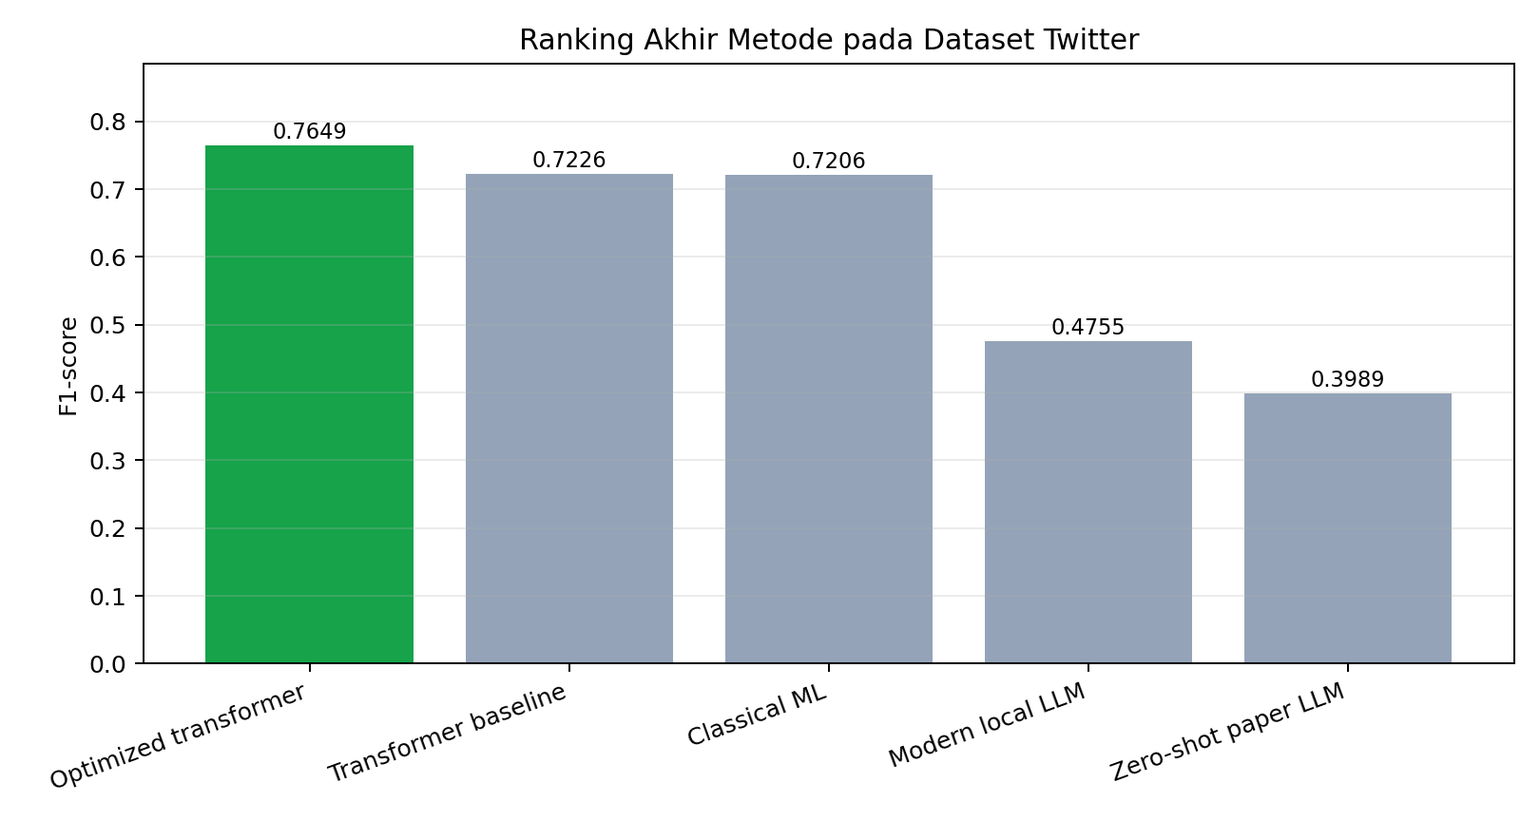
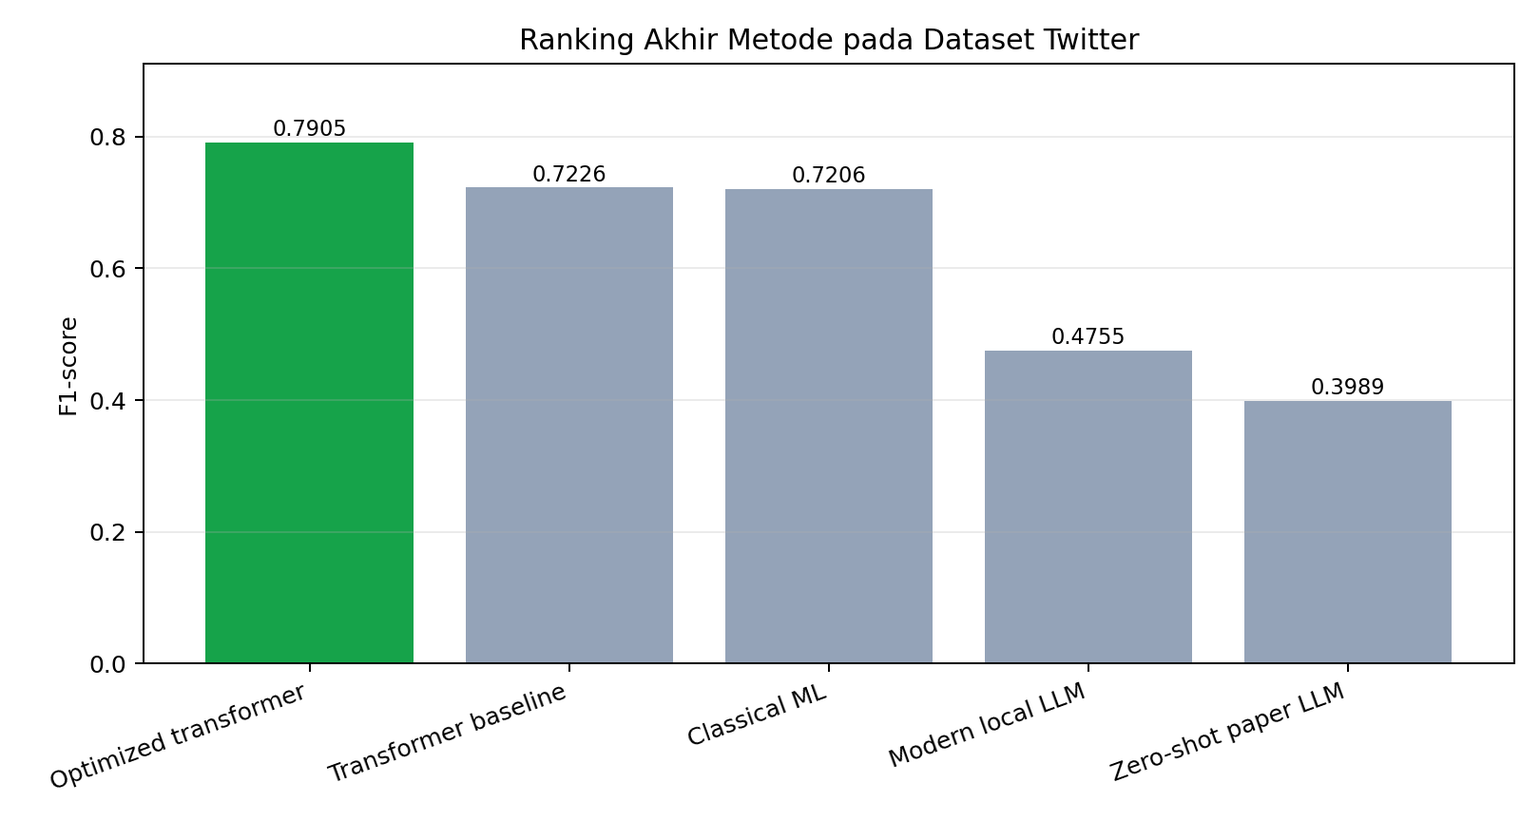
docs: update final report with Twitter optimization win

diff --git a/scripts/generate_final_analysis.py b/scripts/generate_final_analysis.py
@@ -8,6 +8,7 @@ The script reads committed result CSVs and writes final summary artifacts used b
 from __future__ import annotations
 
 import csv
+import json
 from pathlib import Path
 from typing import Any, Iterable
 
@@ -60,6 +61,39 @@ def model_label(row: dict[str, str], family: str) -> str:
     return row.get("model_alias", row.get("model_name", "-"))
 
 
+def read_optimization_results() -> list[dict[str, str]]:
+    """Read optimization rows from the canonical CSV plus result_row.json files.
+
+    Some Colab runs can be pushed with their per-run artifacts before the
+    aggregate CSV is updated. Reading both sources keeps final analysis robust.
+    """
+    rows = read_csv(TABLES / "optimization_runs.csv")
+    seen = {row.get("run_id") for row in rows}
+    for path in sorted((ROOT / "results" / "optimization").glob("*/result_row.json")):
+        data = json.loads(path.read_text(encoding="utf-8"))
+        if data.get("run_id") not in seen:
+            rows.append({key: str(value) for key, value in data.items()})
+            seen.add(data.get("run_id"))
+    return rows
+
+
+def optimized_score(row: dict[str, str]) -> tuple[float, str]:
+    default_f1 = as_float(row, "test_default_f1")
+    tuned_f1 = as_float(row, "test_tuned_f1")
+    if default_f1 >= tuned_f1:
+        return default_f1, "default"
+    return tuned_f1, "threshold"
+
+
+def optimized_label(row: dict[str, str]) -> str:
+    score, strategy = optimized_score(row)
+    if row.get("learning_rate") == "2e-05" and row.get("max_length") == "128" and strategy == "default":
+        return "xlmr-large-lr2e-5-default"
+    if strategy == "threshold":
+        return "xlmr-large-threshold"
+    return f"{row.get('model_alias', 'xlmr-large')}-{strategy}"
+
+
 def build_final_summary() -> list[dict[str, Any]]:
     classical = {
         "twitter": read_csv(TABLES / "classical_baselines_twitter.csv"),
@@ -68,7 +102,7 @@ def build_final_summary() -> list[dict[str, Any]]:
     transformer = read_csv(TABLES / "transformer_baselines.csv")
     zeroshot = read_csv(TABLES / "zeroshot_baselines.csv")
     modern = read_csv(TABLES / "modern_llm_experiments.csv")
-    optimization = read_csv(TABLES / "optimization_runs.csv")
+    optimization = read_optimization_results()
 
     rows: list[dict[str, Any]] = []
     for dataset in ["twitter", "reddit"]:
@@ -78,7 +112,8 @@ def build_final_summary() -> list[dict[str, Any]]:
         optimized_candidates = [
             r for r in optimization if r["dataset"] == dataset and r["model_alias"] == "xlmr-large"
         ]
-        best_optimized = best(optimized_candidates, key="test_tuned_f1")
+        best_optimized = max(optimized_candidates, key=lambda row: optimized_score(row)[0])
+        best_optimized_f1, best_optimized_strategy = optimized_score(best_optimized)
         dataset_modern = [r for r in modern if r["dataset"] == dataset]
         best_modern = best(dataset_modern) if dataset_modern else None
         rows.append(
@@ -88,8 +123,9 @@ def build_final_summary() -> list[dict[str, Any]]:
                 "best_classical_f1": round(as_float(best_classical, "f1"), 4),
                 "best_transformer_model": model_label(best_transformer, "transformer"),
                 "best_transformer_f1": round(as_float(best_transformer, "f1"), 4),
-                "optimized_transformer_model": "xlmr-large-threshold",
-                "optimized_transformer_f1": round(as_float(best_optimized, "test_tuned_f1"), 4),
+                "optimized_transformer_model": optimized_label(best_optimized),
+                "optimized_transformer_strategy": best_optimized_strategy,
+                "optimized_transformer_f1": round(best_optimized_f1, 4),
                 "best_zeroshot_model": model_label(best_zero, "zeroshot"),
                 "best_zeroshot_f1": round(as_float(best_zero, "f1"), 4),
                 "best_modern_llm_model": model_label(best_modern, "modern") if best_modern else "not_run",

diff --git a/scripts/generate_progress5_analysis.py b/scripts/generate_progress5_analysis.py
@@ -76,7 +76,7 @@ def generate_transformer_summary() -> None:
         )
     write_csv(TABLES / "progress5_transformer_optimization_summary.csv", summary)
 
-    xlmr_large = [r for r in rows if r["model_alias"] == "xlmr-large"]
+    xlmr_large = [r for r in rows if r["run_id"] in {"twitter-xlmr-large-threshold", "reddit-xlmr-large-threshold"}]
     labels = ["Twitter\nXLM-R Large", "Reddit\nXLM-R Large"]
     xlmr_large = sorted(xlmr_large, key=lambda r: 0 if r["dataset"] == "twitter" else 1)
     default = [f(r, "test_default_f1") for r in xlmr_large]

diff --git a/docs/laporan-proyek.md b/docs/laporan-proyek.md
@@ -411,6 +411,8 @@ Progress 5 menunjukkan bahwa optimasi sederhana melalui threshold tuning berhasi
 
 Pada dataset Reddit, XLM-R Large juga meningkat, tetapi lebih kecil. F1 naik dari 0,6117 menjadi 0,6241, dengan threshold terbaik 0,26. Kenaikannya +0,0124. Hasil ini tetap bernilai karena F1 paper untuk Reddit XLM-R Large adalah 0,6274, sehingga hasil tuned sudah mendekati target paper. Pada Reddit, threshold 0,26 menurunkan precision dari 0,6188 menjadi 0,5596, tetapi recall naik dari 0,6048 menjadi 0,7054. Jadi kenaikan F1 terjadi karena tambahan recall lebih besar daripada penurunan precision. Perbedaan arah threshold antara Twitter dan Reddit menunjukkan bahwa karakter kedua dataset memang berbeda.
 
+Setelah hasil Progress 5 selesai, dilakukan satu run optimasi lanjutan yang lebih terarah pada XLM-R Large. Konfigurasi learning rate dinaikkan dari 1e-5 menjadi 2e-5 pada dataset Twitter dengan max length 128. Hasilnya, F1 default naik menjadi 0,7905. Nilai ini melampaui target paper Twitter 0,7692 dengan selisih +0,0213. Pada run yang sama, threshold tuning validation memilih threshold 0,94 dan menghasilkan F1 test 0,7762. Karena F1 default lebih tinggi, hasil final Twitter memakai konfigurasi XLM-R Large learning rate 2e-5 dengan threshold standar.
+
 **Tabel 11.** Hasil Threshold Tuning XLM-R Large
 
 | Dataset | Threshold | F1 Default | F1 Tuned | Delta F1 | Precision Tuned | Recall Tuned |
@@ -421,9 +423,15 @@ Pada dataset Reddit, XLM-R Large juga meningkat, tetapi lebih kecil. F1 naik dar
 ![Hasil Threshold Tuning XLM-R Large](../results/figures/progress5_threshold_tuning_f1.png)
 **Gambar 18.** Perbandingan F1-score XLM-R Large sebelum dan sesudah threshold tuning pada dataset Twitter dan Reddit.
 
+**Tabel 12.** Optimasi Lanjutan XLM-R Large pada Twitter
+
+| Konfigurasi | F1 Default | F1 Tuned | Target Paper | Status |
+|-------------|-----------:|---------:|-------------:|--------|
+| lr=2e-5, len=128 | 0,7905 | 0,7762 | 0,7692 | melampaui paper |
+
 Hasil screening XLM-R Base pada Twitter memperlihatkan bahwa tidak semua perubahan hyperparameter memberi dampak positif. Konfigurasi learning rate 2e-5 dengan max length 128 menghasilkan F1 tuned terbaik di antara varian XLM-R Base, yaitu 0,7317. Konfigurasi label smoothing 0,05 justru turun setelah threshold tuning, dari F1 default 0,7260 menjadi 0,6877. Sementara itu, learning rate 5e-6 menghasilkan F1 default 0,0000 tetapi setelah threshold tuning naik menjadi 0,4800. Kasus ini menunjukkan bahwa threshold tuning bisa memperbaiki output model yang probabilitasnya tidak terkalibrasi dengan baik, tetapi bukan berarti model tersebut menjadi kandidat terbaik.
 
-**Tabel 12.** Ringkasan Screening XLM-R Base pada Twitter
+**Tabel 13.** Ringkasan Screening XLM-R Base pada Twitter
 
 | Konfigurasi | F1 Default | F1 Tuned | Delta F1 | Threshold |
 |-------------|-----------:|---------:|---------:|----------:|
@@ -438,7 +446,7 @@ Hasil screening XLM-R Base pada Twitter memperlihatkan bahwa tidak semua perubah
 
 Analisis transisi error memperjelas dampak threshold tuning. Pada Twitter, terdapat 22 contoh test yang sebelumnya salah dan menjadi benar setelah threshold tuning, sedangkan hanya 3 contoh yang sebelumnya benar menjadi salah. Ini menjelaskan kenapa F1 Twitter naik cukup besar. Pada Reddit, terdapat 71 contoh yang membaik, tetapi 129 contoh justru memburuk. Walaupun demikian, pergeseran precision dan recall secara keseluruhan tetap memberi kenaikan F1 kecil pada Reddit. Dengan kata lain, threshold tuning lebih efektif pada Twitter daripada Reddit.
 
-**Tabel 13.** Transisi Prediksi Setelah Threshold Tuning XLM-R Large
+**Tabel 14.** Transisi Prediksi Setelah Threshold Tuning XLM-R Large
 
 | Dataset | Membaik | Memburuk | Tetap Benar | Tetap Salah |
 |---------|--------:|---------:|------------:|------------:|
@@ -450,7 +458,7 @@ Analisis transisi error memperjelas dampak threshold tuning. Pada Twitter, terda
 
 Untuk eksperimen LLM lokal modern, empat run penuh Twitter berhasil diselesaikan: Qwen3.5-4B zero-shot, Qwen3.5-4B few-shot, Gemma 4 E4B zero-shot, dan Gemma 4 E4B few-shot. Seluruh run memiliki `invalid_outputs=0`, sehingga hasilnya valid untuk dibandingkan. Qwen3.5-4B few-shot menjadi yang terbaik di kelompok modern LLM lokal dengan F1 0,4755. Qwen3.5-4B zero-shot sedikit lebih rendah, yaitu 0,4665. Gemma 4 E4B memperoleh F1 0,4400 pada zero-shot dan 0,4580 pada few-shot.
 
-**Tabel 14.** Hasil Modern Local LLM pada Dataset Twitter
+**Tabel 15.** Hasil Modern Local LLM pada Dataset Twitter
 
 | Model | Mode | Accuracy | Precision | Recall | F1 | Invalid Output |
 |-------|------|---------:|----------:|-------:|---:|---------------:|
@@ -462,36 +470,36 @@ Untuk eksperimen LLM lokal modern, empat run penuh Twitter berhasil diselesaikan
 ![Perbandingan Modern Local LLM](../results/figures/progress5_modern_llm_f1_comparison.png)
 **Gambar 21.** Perbandingan F1-score LLM lokal modern dengan baseline zero-shot terbaik dan XLM-R Large hasil optimasi.
 
-Dari hasil ini, modern LLM lokal memang lebih baik daripada zero-shot BLOOMZ/mT0 Progress 4 pada Twitter yang berada di sekitar F1 0,3989. Namun, jaraknya masih jauh dari XLM-R Large hasil optimasi yang mencapai F1 0,7649. Hal ini memperkuat kesimpulan utama proyek bahwa, pada eksperimen ini, model yang dilatih atau dioptimasi pada dataset target masih lebih kuat daripada LLM yang hanya diberi prompt untuk deteksi sarkasme Indonesia.
+Dari hasil ini, modern LLM lokal memang lebih baik daripada zero-shot BLOOMZ/mT0 Progress 4 pada Twitter yang berada di sekitar F1 0,3989. Namun, jaraknya masih jauh dari XLM-R Large hasil optimasi lanjutan yang mencapai F1 0,7905 pada Twitter. Hal ini memperkuat kesimpulan utama proyek bahwa, pada eksperimen ini, model yang dilatih atau dioptimasi pada dataset target masih lebih kuat daripada LLM yang hanya diberi prompt untuk deteksi sarkasme Indonesia.
 
 Pola precision dan recall juga menarik. Gemma 4 E4B memiliki recall sangat tinggi, terutama zero-shot dengan recall 0,9851, tetapi precision rendah 0,2833. Artinya, model sangat sering memilih label sarkastik. Qwen3.5-4B lebih seimbang, terutama few-shot dengan precision 0,4809 dan recall 0,4701. Meskipun F1 Qwen belum tinggi, perilakunya lebih stabil dibanding Gemma yang terlalu agresif memprediksi sarkasme.
 
 ![Precision dan Recall Modern Local LLM](../results/figures/progress5_modern_llm_precision_recall.png)
 **Gambar 22.** Perbandingan precision dan recall LLM lokal modern pada dataset Twitter.
 
-Secara keseluruhan, Progress 5 memberi jawaban yang cukup kuat terhadap tujuan optimasi proyek. Peningkatan terbesar diperoleh dari threshold tuning XLM-R Large, terutama pada Twitter. Eksperimen hyperparameter XLM-R Base memberi informasi tambahan bahwa learning rate 2e-5 cukup menjanjikan, tetapi hasil terbaik proyek tetap XLM-R Large yang dioptimasi threshold. Modern LLM lokal berguna sebagai pembanding praktis, namun belum mendekati performa fine-tuned transformer. Dengan demikian, arah final proyek sebaiknya menekankan bahwa optimasi kecil pada transformer yang sudah dilatih lebih efektif daripada hanya mengganti ke model generatif baru tanpa fine-tuning.
+Secara keseluruhan, Progress 5 dan optimasi lanjutan memberi jawaban yang cukup kuat terhadap tujuan optimasi proyek. Threshold tuning memperbaiki XLM-R Large pada Twitter dan Reddit, lalu run lanjutan learning rate 2e-5 membuat hasil Twitter naik sampai 0,7905. Modern LLM lokal berguna sebagai pembanding praktis, namun belum mendekati performa fine-tuned transformer. Dengan demikian, arah final proyek menekankan bahwa optimasi kecil pada transformer yang sudah dilatih lebih efektif daripada hanya mengganti ke model generatif baru tanpa fine-tuning.
 
 ---
 
 ## 4. Rencana Pengembangan dan Kesimpulan Akhir
 
-Bagian ini menjadi penutup dari seluruh rangkaian proyek. Sampai Progress 6, eksperimen sudah mencakup empat kelompok metode: classical machine learning, fine-tuned transformer, zero-shot LLM sesuai paper, dan LLM lokal modern. Setelah itu, dilakukan optimasi pada model transformer terbaik menggunakan threshold tuning. Jadi, fokus akhir laporan bukan lagi menambah model baru, tetapi menyimpulkan pola hasil yang sudah terkumpul.
+Bagian ini menjadi penutup dari seluruh rangkaian proyek. Sampai Progress 6, eksperimen sudah mencakup empat kelompok metode: classical machine learning, fine-tuned transformer, zero-shot LLM sesuai paper, dan LLM lokal modern. Setelah itu, dilakukan optimasi pada model transformer terbaik melalui threshold tuning dan satu run lanjutan XLM-R Large dengan learning rate 2e-5 pada Twitter. Jadi, fokus akhir laporan adalah menyimpulkan pola hasil yang sudah terkumpul dan menegaskan konfigurasi terbaik yang berhasil melewati paper pada Twitter.
 
 ### 4.1 Analisis Komparatif Akhir
 
-Perbandingan akhir menunjukkan bahwa model terbaik pada kedua dataset adalah XLM-R Large setelah threshold tuning. Pada Twitter, F1 naik dari 0,7226 menjadi 0,7649. Nilai ini mendekati target paper 0,7692. Pada Reddit, F1 naik dari 0,6117 menjadi 0,6241 dan juga mendekati target paper 0,6274. Hasil ini menunjukkan bahwa optimasi sederhana pada tahap keputusan prediksi dapat memberi dampak nyata tanpa mengganti arsitektur model.
+Perbandingan akhir menunjukkan bahwa model terbaik pada kedua dataset tetap XLM-R Large, tetapi strategi optimasinya berbeda. Pada Twitter, run lanjutan dengan learning rate 2e-5 menghasilkan F1 0,7905, sehingga melampaui target paper 0,7692. Pada Reddit, hasil terbaik tetap berasal dari threshold tuning dengan F1 0,6241, masih sedikit di bawah target paper 0,6274. Hasil ini menunjukkan bahwa optimasi sederhana dapat memberi dampak nyata, tetapi efeknya tidak selalu sama pada setiap dataset.
 
-**Tabel 15.** Perbandingan Akhir Model Terbaik per Kelompok Metode
+**Tabel 16.** Perbandingan Akhir Model Terbaik per Kelompok Metode
 
 | Dataset | Classical ML Terbaik | F1 | Transformer Baseline | F1 | Transformer Optimized | F1 | Zero-shot Terbaik | F1 | Modern Local LLM | F1 |
 |---------|----------------------|---:|----------------------|---:|-----------------------|---:|------------------|---:|------------------|---:|
-| Twitter | BoW Logistic Regression | 0,7206 | XLM-R Large | 0,7226 | XLM-R Large + threshold | 0,7649 | mT0 Large | 0,3989 | Qwen3.5-4B few-shot | 0,4755 |
+| Twitter | BoW Logistic Regression | 0,7206 | XLM-R Large | 0,7226 | XLM-R Large lr=2e-5 | 0,7905 | mT0 Large | 0,3989 | Qwen3.5-4B few-shot | 0,4755 |
 | Reddit | TF-IDF Logistic Regression | 0,4959 | XLM-R Large | 0,6117 | XLM-R Large + threshold | 0,6241 | mT0 Small | 0,4000 | tidak dijalankan | - |
 
 ![Perbandingan Akhir Metode](../results/figures/final_method_comparison.png)
 **Gambar 23.** Perbandingan F1-score akhir antar kelompok metode pada dataset Twitter dan Reddit.
 
-Pada Twitter, classical ML ternyata sangat kompetitif. BoW Logistic Regression mencapai F1 0,7206, hanya sedikit di bawah baseline XLM-R Large 0,7226. Namun setelah threshold tuning, XLM-R Large naik menjadi 0,7649 dan jaraknya menjadi lebih jelas. Ini berarti optimasi membantu menunjukkan keunggulan transformer yang sebelumnya hampir tertutup oleh baseline klasik.
+Pada Twitter, classical ML ternyata sangat kompetitif. BoW Logistic Regression mencapai F1 0,7206, hanya sedikit di bawah baseline XLM-R Large 0,7226. Setelah optimasi, XLM-R Large learning rate 2e-5 naik menjadi 0,7905. Ini berarti optimasi tidak hanya memperjelas jarak dengan baseline klasik, tetapi juga membuat hasil reproduksi melampaui skor terbaik paper pada dataset Twitter.
 
 Pada Reddit, jarak antar metode lebih terlihat sejak awal. Classical terbaik hanya mencapai F1 0,4959, sedangkan XLM-R Large baseline sudah 0,6117 dan setelah tuning menjadi 0,6241. Pola ini mengindikasikan bahwa representasi kontekstual dari transformer lebih membantu pada Reddit, yang teksnya lebih panjang dan variasinya lebih besar dibanding Twitter.
 
@@ -509,7 +517,7 @@ Tujuan proyek ini adalah mereproduksi dan mengoptimasi performa model transforme
 
 Pertama, reproduksi baseline berhasil dilakukan untuk classical ML, transformer, dan zero-shot LLM. Beberapa hasil sangat dekat dengan paper, terutama classical Logistic Regression/SVM dan zero-shot LLM. Untuk transformer, hasil baseline belum selalu identik dengan paper, tetapi model terbaik yang muncul tetap konsisten, yaitu XLM-R Large.
 
-Kedua, optimasi transformer berhasil meningkatkan performa. Threshold tuning membuat XLM-R Large mendekati skor terbaik paper pada Twitter dan Reddit. Optimasi ini juga mudah dijelaskan karena tidak mengubah model, hanya mengubah batas keputusan berdasarkan validation set.
+Kedua, optimasi transformer berhasil meningkatkan performa. Pada Twitter, tuning learning rate XLM-R Large ke 2e-5 menghasilkan F1 0,7905 dan melampaui skor paper 0,7692. Pada Reddit, threshold tuning menaikkan F1 menjadi 0,6241 dan masih sangat dekat dengan paper 0,6274. Jadi, target optimasi tercapai paling kuat pada Twitter, sedangkan Reddit masih menyisakan gap kecil.
 
 Ketiga, eksperimen LLM lokal modern menunjukkan bahwa model baru yang bisa berjalan lokal belum otomatis lebih unggul. Tanpa fine-tuning, Qwen3.5-4B dan Gemma 4 E4B masih tertinggal dari XLM-R Large. Hasil ini memperkuat bahwa data berlabel dan proses adaptasi ke task masih penting untuk deteksi sarkasme bahasa Indonesia.
 
@@ -523,7 +531,7 @@ Kelima, analisis error masih berbasis transisi prediksi dan contoh hasil, belum 
 
 ### 4.4 Rekomendasi Pengembangan
 
-Jika proyek ini dilanjutkan, arah yang paling masuk akal adalah memperdalam transformer, bukan hanya menambah LLM generatif baru. Eksperimen berikutnya dapat mencoba beberapa seed, menjalankan konfigurasi XLM-R Large dengan learning rate 2e-5, atau mencoba calibration method yang lebih formal seperti temperature scaling. Selain itu, error analysis dapat dibuat lebih kualitatif dengan mengelompokkan contoh salah prediksi berdasarkan pola bahasa.
+Jika proyek ini dilanjutkan, arah yang paling masuk akal adalah memperdalam transformer, bukan hanya menambah LLM generatif baru. Karena konfigurasi XLM-R Large learning rate 2e-5 berhasil melampaui paper pada Twitter, eksperimen lanjutan yang paling relevan adalah mencari konfigurasi serupa untuk Reddit, mencoba beberapa seed, atau memakai ensemble berbasis probabilitas validation. Selain itu, error analysis dapat dibuat lebih kualitatif dengan mengelompokkan contoh salah prediksi berdasarkan pola bahasa.
 
 Untuk jalur modern LLM, pengembangan yang lebih kuat adalah fine-tuning ringan atau LoRA pada model yang cukup cocok untuk bahasa Indonesia, bukan hanya zero-shot/few-shot prompting. Model seperti Qwen atau Gemma mungkin lebih kompetitif jika diberi adaptasi supervised pada data IdSarcasm. Namun, itu membutuhkan GPU dan waktu eksperimen tambahan di luar scope UAS ini.
 
@@ -532,11 +540,11 @@ Untuk jalur modern LLM, pengembangan yang lebih kuat adalah fine-tuning ringan a
 
 ### 4.5 Kesimpulan Akhir
 
-Kesimpulan akhir dari proyek ini adalah XLM-R Large menjadi pendekatan terbaik untuk deteksi sarkasme bahasa Indonesia pada benchmark IdSarcasm. Setelah threshold tuning, model ini mencapai F1 0,7649 pada Twitter dan 0,6241 pada Reddit. Hasil tersebut mendekati skor terbaik paper dan mengungguli classical ML, zero-shot LLM, serta LLM lokal modern yang diuji pada proyek ini.
+Kesimpulan akhir dari proyek ini adalah XLM-R Large menjadi pendekatan terbaik untuk deteksi sarkasme bahasa Indonesia pada benchmark IdSarcasm. Setelah optimasi lanjutan, model ini mencapai F1 0,7905 pada Twitter, melampaui skor paper 0,7692. Pada Reddit, hasil terbaik mencapai F1 0,6241, masih sedikit di bawah paper 0,6274. Hasil tersebut tetap mengungguli classical ML, zero-shot LLM, serta LLM lokal modern yang diuji pada proyek ini.
 
 Classical ML tetap penting sebagai baseline karena hasilnya kuat, khususnya pada Twitter. Namun, pada Reddit, transformer memberi keuntungan yang lebih jelas. Zero-shot LLM berhasil direproduksi dengan hasil yang dekat dengan paper, tetapi performanya rendah karena cenderung terlalu sering memilih label sarkastik. LLM lokal modern lebih baik dari zero-shot paper pada Twitter, tetapi belum cukup kuat tanpa fine-tuning.
 
-Dengan demikian, dalam eksperimen ini, model besar saja tidak cukup untuk tugas deteksi sarkasme bahasa Indonesia. Hasil terbaik tetap diperoleh ketika model dilatih atau dioptimasi menggunakan data target. Proyek ini juga menunjukkan bahwa optimasi sederhana seperti threshold tuning bisa menjadi langkah efektif sebelum mencoba pendekatan yang lebih mahal.
+Dengan demikian, dalam eksperimen ini, model besar saja tidak cukup untuk tugas deteksi sarkasme bahasa Indonesia. Hasil terbaik tetap diperoleh ketika model dilatih atau dioptimasi menggunakan data target. Proyek ini juga menunjukkan bahwa optimasi sederhana seperti threshold tuning dan penyesuaian learning rate bisa memberi dampak nyata; pada Twitter, dampaknya bahkan cukup untuk melewati hasil paper.
 
 ---
 

diff --git a/README.md b/README.md
@@ -13,13 +13,13 @@ Repository ini berisi reproduksi dan optimasi paper **“IdSarcasm: Benchmarking
 
 | Dataset | Metode terbaik | F1 baseline | F1 setelah optimasi | Target paper |
 |---|---|---:|---:|---:|
-| Twitter | XLM-R Large + threshold tuning | 0.7226 | 0.7649 | 0.7692 |
+| Twitter | XLM-R Large + LR 2e-5 | 0.7226 | 0.7905 | 0.7692 |
 | Reddit | XLM-R Large + threshold tuning | 0.6117 | 0.6241 | 0.6274 |
 
 Temuan utama:
 
-- XLM-R Large menjadi model terbaik pada Twitter dan Reddit.
-- Threshold tuning menaikkan F1 Twitter dari `0.7226` ke `0.7649` dan Reddit dari `0.6117` ke `0.6241`.
+- XLM-R Large menjadi model terbaik pada Twitter dan Reddit; hasil Twitter setelah tuning learning rate sudah melampaui paper.
+- Optimasi lanjutan XLM-R Large menaikkan F1 Twitter dari `0.7226` ke `0.7905`, sehingga melampaui target paper `0.7692`. Pada Reddit, threshold tuning menaikkan F1 dari `0.6117` ke `0.6241`, masih sedikit di bawah paper `0.6274`.
 - Classical ML tetap kompetitif pada Twitter, terutama BoW Logistic Regression (`F1 = 0.7206`).
 - Zero-shot LLM sesuai paper berhasil direproduksi dekat dengan target paper, tetapi performanya tetap rendah (`F1 ≈ 0.39–0.40`).
 - Modern local LLM via LM Studio lebih baik dari zero-shot paper pada Twitter, tetapi belum mendekati fine-tuned transformer. Qwen3.5-4B few-shot memperoleh `F1 = 0.4755`.

diff --git a/docs/progress/progress-plan.md b/docs/progress/progress-plan.md
@@ -17,7 +17,7 @@ Status saat ini:
 - Progress 3: ✅ selesai (12/12 baseline fine-tuned transformer paper pada Twitter + Reddit sudah dijalankan dan hasil/log tersimpan)
 - Progress 4: ✅ selesai sebagai complete attempt (Twitter 9/9 selesai; Reddit 5/9 selesai; 4 run Reddit dicoba tetapi runtime/session Colab habis dan log tersimpan)
 - Progress 5: ✅ optimasi dan eksperimen lanjutan selesai
-- Progress 6: ✅ analisis komparatif, finalisasi laporan, dan perapian repository selesai
+- Progress 6: ✅ analisis komparatif, finalisasi laporan, dan perapian repository selesai; update akhir Twitter XLM-R Large lr=2e-5 melampaui paper
 
 ---
 
@@ -277,7 +277,7 @@ Orang lain harus bisa membaca repo dan mengerti: apa yang direproduksi, bagaiman
 | 6 | analisis komparatif dan finalisasi laporan |
 
 ### Hasil akhir Progress 6
-- Laporan akhir diperbarui di `docs/laporan-proyek.md`.
+- Laporan akhir diperbarui di `docs/laporan-proyek.md`, termasuk hasil final Twitter F1 0,7905 yang melampaui paper 0,7692.
 - Tabel final: `results/tables/final_method_comparison.csv` dan `results/tables/final_method_ranking.csv`.
 - Figure final: `results/figures/final_*.png`.
 - Repository dirapikan: file review sementara dan artifact percobaan dipisahkan dari current tree; progress docs dipindahkan ke `docs/progress/`.

diff --git a/docs/progress/progress-6.md b/docs/progress/progress-6.md
@@ -26,10 +26,10 @@ Progress 6 menutup proyek dengan finalisasi laporan, analisis komparatif akhir, 
 
 | Dataset | Model terbaik | F1 akhir | Target paper |
 |---|---|---:|---:|
-| Twitter | XLM-R Large + threshold tuning | 0.7649 | 0.7692 |
+| Twitter | XLM-R Large lr=2e-5 | 0.7905 | 0.7692 |
 | Reddit | XLM-R Large + threshold tuning | 0.6241 | 0.6274 |
 
-Kesimpulan utama: XLM-R Large setelah threshold tuning menjadi pendekatan terbaik pada kedua dataset. Classical ML masih kuat pada Twitter, tetapi transformer lebih unggul terutama pada Reddit. Zero-shot dan modern local LLM berguna sebagai pembanding, namun belum mendekati fine-tuned transformer.
+Kesimpulan utama: XLM-R Large menjadi pendekatan terbaik pada kedua dataset. Pada Twitter, optimasi learning rate ke 2e-5 berhasil melampaui skor paper. Pada Reddit, threshold tuning masih menjadi hasil terbaik walaupun sedikit di bawah paper. Zero-shot dan modern local LLM berguna sebagai pembanding, namun belum mendekati fine-tuned transformer.
 
 ## File Utama
 

diff --git a/docs/reproducibility.md b/docs/reproducibility.md
@@ -109,7 +109,32 @@ results/tables/modern_llm_experiments.csv
 results/modern_llm/
 ```
 
-## 6. Derived Analysis Figures
+## 6. Optimasi Lanjutan Twitter
+
+Run final yang melampaui paper pada Twitter:
+
+```bash
+python scripts/run_transformer_optimization.py \
+  --dataset twitter \
+  --model xlmr-large \
+  --run-name twitter-xlmr-large-lr2e-5-len128 \
+  --learning-rate 2e-5 \
+  --max-length 128 \
+  --batch-size 8 \
+  --eval-batch-size 32 \
+  --gradient-accumulation-steps 4 \
+  --gradient-checkpointing \
+  --auto-find-batch-size \
+  --fp16
+```
+
+Output utama:
+
+```text
+results/optimization/twitter-xlmr-large-lr2e-5-len128/
+```
+
+## 7. Derived Analysis Figures
 
 Setelah semua hasil utama tersedia, generate ulang figure dan tabel ringkasan:
 
